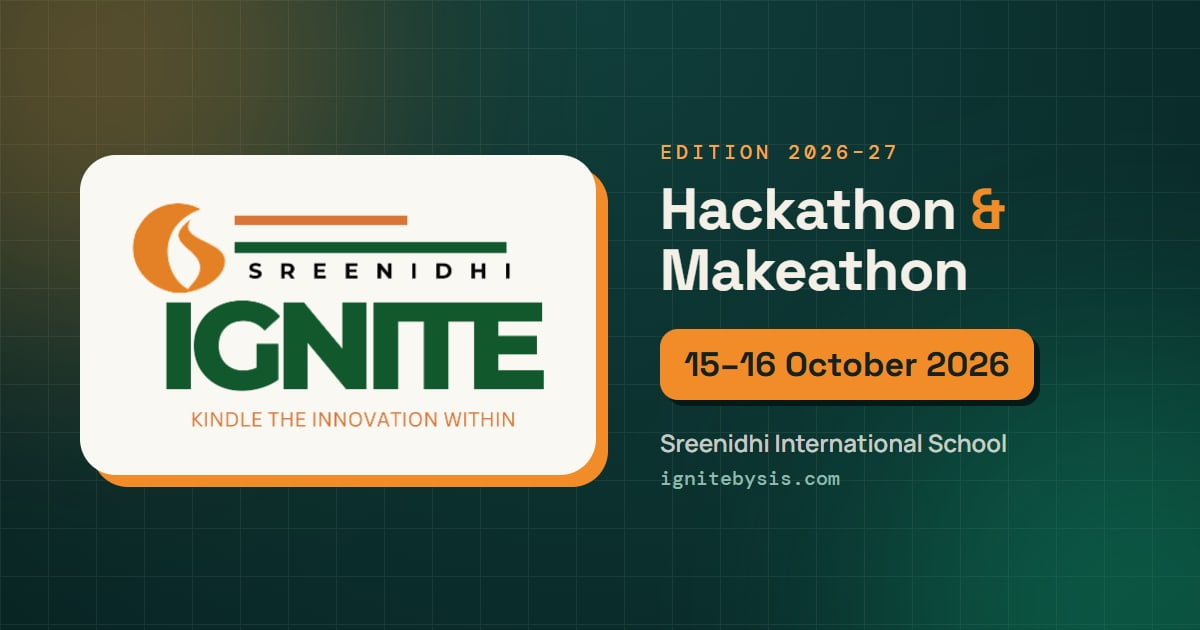
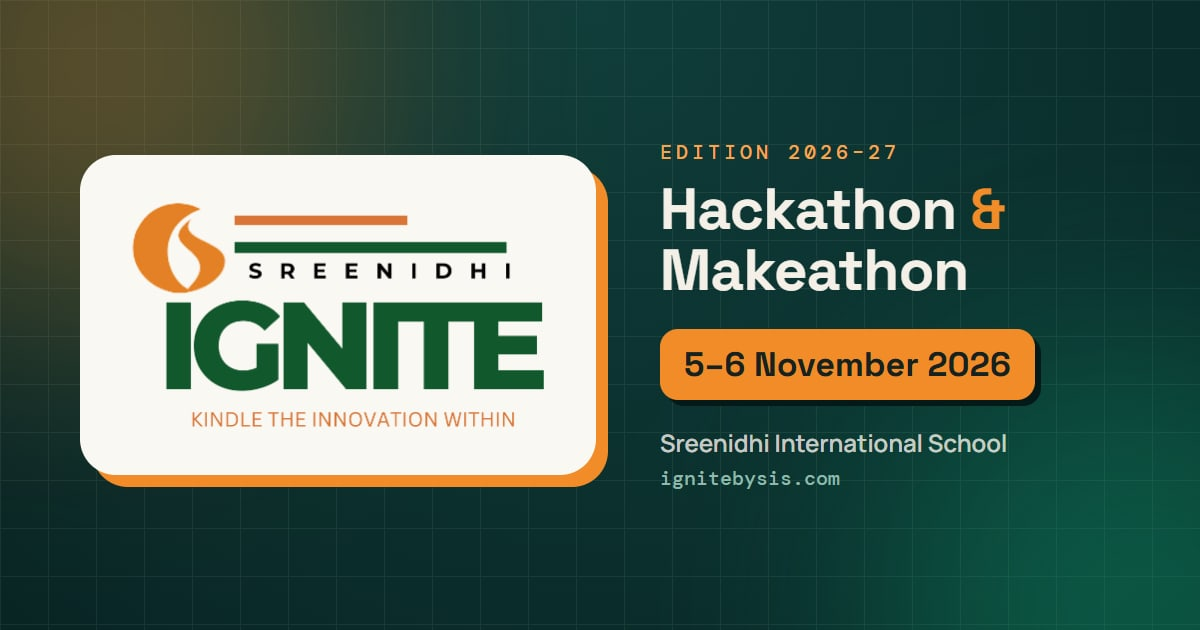
Reschedule to 5-6 November 2026 (Dussehra holidays) - DRAFT, awaiting confirmation
- All site dates, About text, countdown target/label, Add to Calendar
- Page descriptions and share tags; regenerated share image
- Event structured data: new dates, eventStatus Rescheduled,
  previousStartDate 2026-10-15

Changed region(s): [[0.555, 0.5429, 0.8633, 0.6032]]

diff --git a/index.html b/index.html
@@ -4,9 +4,9 @@
     <meta charset="UTF-8" />
     <meta name="viewport" content="width=device-width, initial-scale=1.0" />
     <title>Sreenidhi IGNITE — Student Innovation Marathon</title>
-    <meta name="description" content="Sreenidhi IGNITE 2026-27: Hackathon & Makeathon (15-16 October 2026) at Sreenidhi International School. A platform where students transform ideas into interactive systems, creative solutions, and meaningful experiences." />
+    <meta name="description" content="Sreenidhi IGNITE 2026-27: Hackathon & Makeathon (5-6 November 2026) at Sreenidhi International School. A platform where students transform ideas into interactive systems, creative solutions, and meaningful experiences." />
     <meta property="og:title" content="Sreenidhi IGNITE — Student Innovation Marathon" />
-    <meta property="og:description" content="Sreenidhi IGNITE 2026-27: Hackathon & Makeathon (15-16 October 2026) at Sreenidhi International School. A platform where students transform ideas into interactive systems, creative solutions, and meaningful experiences." />
+    <meta property="og:description" content="Sreenidhi IGNITE 2026-27: Hackathon & Makeathon (5-6 November 2026) at Sreenidhi International School. A platform where students transform ideas into interactive systems, creative solutions, and meaningful experiences." />
     <meta property="og:type" content="website" />
     <meta property="og:site_name" content="Sreenidhi IGNITE" />
     <meta property="og:url" content="https://ignitebysis.com/" />
@@ -14,7 +14,7 @@
     <meta property="og:image" content="https://ignitebysis.com/og-image.jpg" />
     <meta property="og:image:width" content="1200" />
     <meta property="og:image:height" content="630" />
-    <meta property="og:image:alt" content="Sreenidhi IGNITE 2026-27 — Hackathon & Makeathon, 15-16 October 2026, Sreenidhi International School" />
+    <meta property="og:image:alt" content="Sreenidhi IGNITE 2026-27 — Hackathon & Makeathon, 5-6 November 2026, Sreenidhi International School" />
     <meta name="twitter:card" content="summary_large_image" />
     <meta name="twitter:image" content="https://ignitebysis.com/og-image.jpg" />
 
@@ -40,9 +40,10 @@
             "@type": "Event",
             "name": "Sreenidhi IGNITE 2026-27: Hackathon & Makeathon",
             "description": "A two-day student innovation marathon at Sreenidhi International School. Junior (MYP 1-3, Grades 6-8) and Senior (MYP 4-DP 2, Grades 9-12) teams take on Game Development, Rube Goldberg Machine, App Development and CAD Design challenges.",
-            "startDate": "2026-10-15",
-            "endDate": "2026-10-16",
-            "eventStatus": "https://schema.org/EventScheduled",
+            "startDate": "2026-11-05",
+            "endDate": "2026-11-06",
+            "eventStatus": "https://schema.org/EventRescheduled",
+            "previousStartDate": "2026-10-15",
             "eventAttendanceMode": "https://schema.org/OfflineEventAttendanceMode",
             "url": "https://ignitebysis.com/",
             "image": ["https://ignitebysis.com/og-image.jpg"],

diff --git a/src/data/igniteData.ts b/src/data/igniteData.ts
@@ -18,7 +18,7 @@ export const IGNITE_DATA = {
   event: {
     title: 'IGNITE 2026-27',
     subtitle: 'Hackathon & Makeathon',
-    dates: '15-16 October 2026',
+    dates: '5-6 November 2026',
     school: 'Sreenidhi International School',
     tagline: 'Kindle the innovation within',
     prizeMoney: 'Up to ₹25,000',
@@ -27,7 +27,7 @@ export const IGNITE_DATA = {
     instagram: 'https://www.instagram.com/sreenidhi_ignite',
     instagramHandle: '@sreenidhi_ignite',
     definition: 'A platform where students transform ideas into interactive systems, creative solutions, and meaningful experiences.',
-    about: "Organised by the Design Department, IGNITE 2026–27 is a two-day innovation marathon held on 15–16 October 2026 in the New Design Block at the SIS campus. It brings together students from different schools to think creatively, work as a team, and turn ideas into practical solutions for real-world problems. This year's challenges span Game Development, App Development, Rube Goldberg Machines, and CAD Design, all built around one theme: designing interactive systems that engage, challenge, and connect people.",
+    about: "Organised by the Design Department, IGNITE 2026–27 is a two-day innovation marathon held on 5–6 November 2026 in the New Design Block at the SIS campus. It brings together students from different schools to think creatively, work as a team, and turn ideas into practical solutions for real-world problems. This year's challenges span Game Development, App Development, Rube Goldberg Machines, and CAD Design, all built around one theme: designing interactive systems that engage, challenge, and connect people.",
     finalCall: 'Turn your ideas into something that engages, challenges, and connects. Step into IGNITE and kindle the innovation within.',
     vision: 'To make IGNITE a place where every student sees themselves as an innovator: confident enough to take an idea from a first sketch to a working game, app, machine, or product design.',
     mission: 'To inspire and empower young innovators through hands-on challenges in coding and making, building creativity, critical thinking, and teamwork as they design solutions that engage, challenge, and connect people.'

diff --git a/src/components/CountdownTimer.tsx b/src/components/CountdownTimer.tsx
@@ -10,8 +10,8 @@ interface TimeLeft {
   isLive: boolean;
 }
 
-// Target: October 15, 2026, 09:00:00 IST (Indian Standard Time: UTC+5:30)
-const TARGET_DATE = new Date('2026-10-15T09:00:00+05:30').getTime();
+// Target: November 5, 2026, 09:00:00 IST (Indian Standard Time: UTC+5:30)
+const TARGET_DATE = new Date('2026-11-05T09:00:00+05:30').getTime();
 
 export default function CountdownTimer() {
   const [timeLeft, setTimeLeft] = useState<TimeLeft>({
@@ -64,9 +64,9 @@ export default function CountdownTimer() {
       'IGNITE 2026-27: Kindle the Innovation Within. A flagship marathon featuring Junior and Senior Hackathons & Makeathons.'
     );
     const location = encodeURIComponent('Sreenidhi International School, Hyderabad, Telangana, India');
-    // Start: 2026-10-15 09:00 IST -> 20261015T033000Z
-    // End: 2026-10-16 18:00 IST -> 20261016T123000Z
-    const dates = '20261015T033000Z/20261016T123000Z';
+    // Start: 2026-11-05 09:00 IST -> 20261105T033000Z
+    // End: 2026-11-06 18:00 IST -> 20261106T123000Z
+    const dates = '20261105T033000Z/20261106T123000Z';
     const googleCalendarUrl = `https://calendar.google.com/calendar/render?action=TEMPLATE&text=${title}&dates=${dates}&details=${details}&location=${location}`;
     
     window.open(googleCalendarUrl, '_blank', 'noopener,noreferrer');
@@ -120,7 +120,7 @@ export default function CountdownTimer() {
             </button>
 
             <span className="hidden sm:inline-block font-mono text-[10px] text-white/50">
-              15 Oct 2026 · 09:00 AM IST
+              5 Nov 2026 · 09:00 AM IST
             </span>
           </div>
         </div>
